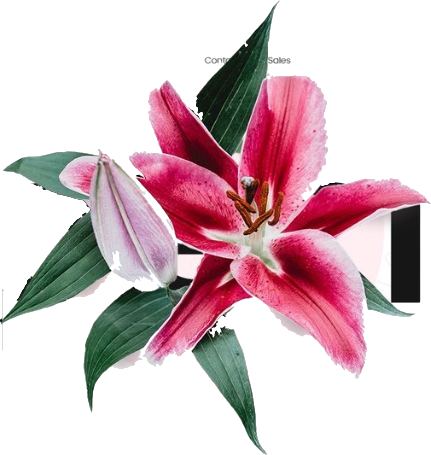
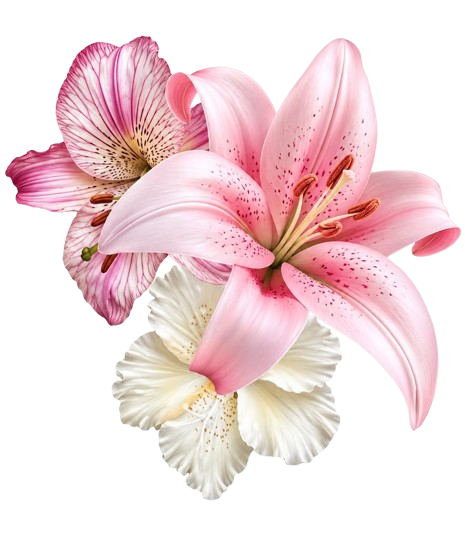
feat: replace hero flower with pristine unified PNG and ensure name Anjali is clearly visible and legible

diff --git a/src/components/hero/LilyFlower.tsx b/src/components/hero/LilyFlower.tsx
@@ -1,4 +1,4 @@
-import React, { useEffect, useRef, useState } from "react"
+import React, { useEffect, useRef } from "react"
 import gsap from "gsap"
 
 interface LilyFlowerProps {
@@ -10,52 +10,22 @@ interface LilyFlowerProps {
 }
 
 export const LilyFlower: React.FC<LilyFlowerProps> = ({
-  bloomRef: externalBloomRef,
-  budRef: externalBudRef,
-  leavesRef: externalLeavesRef,
-  containerRef: externalContainerRef,
+  bloomRef,
+  containerRef,
   isBreathing = false
 }) => {
   const localContainerRef = useRef<HTMLDivElement | null>(null)
   const localBloomRef = useRef<HTMLDivElement | null>(null)
-  const localBudRef = useRef<HTMLDivElement | null>(null)
-  const localLeavesRef = useRef<HTMLDivElement | null>(null)
 
-  const container = externalContainerRef || localContainerRef
-  const bloom = externalBloomRef || localBloomRef
-  const bud = externalBudRef || localBudRef
-  const leaves = externalLeavesRef || localLeavesRef
-
-  const [hasLayers, setHasLayers] = useState<boolean | null>(null)
-  const [hasFull, setHasFull] = useState<boolean | null>(null)
-
-  useEffect(() => {
-    // Check if layered PNGs exist
-    const testImg = new Image()
-    testImg.src = "/assets/lily/lily-bloom.png"
-    testImg.onload = () => setHasLayers(true)
-    testImg.onerror = () => {
-      // Fallback to single cutout
-      const fullImg = new Image()
-      fullImg.src = "/assets/lily/lily-full.png"
-      fullImg.onload = () => {
-        setHasLayers(false)
-        setHasFull(true)
-      }
-      fullImg.onerror = () => {
-        setHasLayers(false)
-        setHasFull(false)
-        console.warn("Lily assets not found. Drop layered PNGs (lily-bloom.png, lily-bud.png, leaf-1.png) or lily-full.png into /public/assets/lily/")
-      }
-    }
-  }, [])
+  const container = containerRef || localContainerRef
+  const bloom = bloomRef || localBloomRef
 
   // Bloom breath reaction when user clicks chevrons
   useEffect(() => {
     if (!isBreathing || !container.current) return
     gsap.to(container.current, {
       scale: 1.05,
-      rotation: "+=2",
+      rotation: "+=1.5",
       duration: 0.35,
       yoyo: true,
       repeat: 1,
@@ -72,121 +42,24 @@ export const LilyFlower: React.FC<LilyFlowerProps> = ({
         willChange: "transform"
       }}
     >
-      {hasLayers === true ? (
-        // Multi-plane layered composition
-        <>
-          {/* Back radiating leaves layer (z-25) */}
-          <div
-            ref={leaves}
-            className="absolute inset-0 w-full h-full pointer-events-none"
-            style={{ zIndex: 25, willChange: "transform" }}
-          >
-            <picture>
-              <img
-                src="/assets/lily/leaf-1.png"
-                alt=""
-                width={465}
-                height={536}
-                className="w-full h-full object-contain pointer-events-none"
-                loading="eager"
-              />
-            </picture>
-          </div>
-
-          {/* Pale-lilac bud layer (z-30) */}
-          <div
-            ref={bud}
-            className="absolute inset-0 w-full h-full pointer-events-none"
-            style={{ zIndex: 30, willChange: "transform" }}
-          >
-            <picture>
-              <img
-                src="/assets/lily/lily-bud.png"
-                alt=""
-                width={465}
-                height={536}
-                className="w-full h-full object-contain pointer-events-none"
-                loading="eager"
-              />
-            </picture>
-          </div>
-
-          {/* Main Stargazer Bloom layer (z-30) */}
-          <div
-            ref={bloom}
-            className="absolute inset-0 w-full h-full pointer-events-none"
-            style={{ zIndex: 30, willChange: "transform" }}
-          >
-            <picture>
-              <img
-                src="/assets/lily/lily-bloom.png"
-                alt="Pink Lily Bloom Bouquet"
-                width={465}
-                height={536}
-                // @ts-expect-error - fetchpriority is valid HTML attribute
-                fetchpriority="high"
-                className="w-full h-full object-contain pointer-events-none"
-                loading="eager"
-              />
-            </picture>
-          </div>
-        </>
-      ) : hasFull === true || hasLayers === null ? (
-        // Single cutout composition fallback
-        <div
-          ref={bloom}
-          className="relative w-full h-full pointer-events-none"
-          style={{ zIndex: 30, willChange: "transform" }}
-        >
-          <picture>
-            <img
-              src="/assets/lily/lily-full.png"
-              alt="Pink Lily Bloom Bouquet"
-              width={465}
-              height={536}
-              // @ts-expect-error - fetchpriority is valid HTML attribute
-              fetchpriority="high"
-              className="w-full h-full object-contain pointer-events-none"
-              loading="eager"
-            />
-          </picture>
-        </div>
-      ) : (
-        // Vector SVG Botanical Lily fallback if no files present
-        <div ref={bloom} className="w-full h-full flex items-center justify-center">
-          <svg viewBox="0 0 400 400" className="w-[85%] h-[85%]" aria-label="Botanical Stargazer Lily Illustration">
-            <defs>
-              <linearGradient id="petalGrad1" x1="0%" y1="0%" x2="100%" y2="100%">
-                <stop offset="0%" stopColor="#FFF2F5" />
-                <stop offset="35%" stopColor="#F4B8CD" />
-                <stop offset="70%" stopColor="#E58AA0" />
-                <stop offset="100%" stopColor="#B83270" />
-              </linearGradient>
-              <linearGradient id="leafGrad" x1="0%" y1="0%" x2="100%" y2="100%">
-                <stop offset="0%" stopColor="#7E882E" />
-                <stop offset="100%" stopColor="#4A5216" />
-              </linearGradient>
-            </defs>
-            {/* Leaves */}
-            <path d="M200,200 Q260,100 240,40 Q180,90 200,200Z" fill="url(#leafGrad)" />
-            <path d="M200,200 Q110,130 80,90 Q120,160 200,200Z" fill="url(#leafGrad)" />
-            <path d="M200,200 Q120,290 90,340 Q150,280 200,200Z" fill="url(#leafGrad)" />
-            <path d="M200,200 Q230,310 220,380 Q250,290 200,200Z" fill="url(#leafGrad)" />
-            {/* Petals */}
-            <path d="M200,200 Q140,80 180,30 Q230,90 200,200Z" fill="url(#petalGrad1)" stroke="#FFF" strokeWidth="2" />
-            <path d="M200,200 Q290,120 350,90 Q300,180 200,200Z" fill="url(#petalGrad1)" stroke="#FFF" strokeWidth="2" />
-            <path d="M200,200 Q320,240 370,270 Q280,270 200,200Z" fill="url(#petalGrad1)" stroke="#FFF" strokeWidth="2" />
-            <path d="M200,200 Q210,310 200,360 Q170,290 200,200Z" fill="url(#petalGrad1)" stroke="#FFF" strokeWidth="2" />
-            <path d="M200,200 Q90,260 40,240 Q110,210 200,200Z" fill="url(#petalGrad1)" stroke="#FFF" strokeWidth="2" />
-            {/* Center Stamens */}
-            <circle cx="200" cy="200" r="10" fill="#E88BAF" />
-            <line x1="200" y1="200" x2="225" y2="175" stroke="#E66A2B" strokeWidth="2.5" />
-            <circle cx="225" cy="175" r="3" fill="#802800" />
-            <line x1="200" y1="200" x2="175" y2="180" stroke="#E66A2B" strokeWidth="2.5" />
-            <circle cx="175" cy="180" r="3" fill="#802800" />
-          </svg>
-        </div>
-      )}
+      <div
+        ref={bloom}
+        className="relative w-full h-full flex items-center justify-center pointer-events-none"
+        style={{ willChange: "transform" }}
+      >
+        <picture>
+          <img
+            src="/assets/lily/lily-full.png"
+            alt="Pink Stargazer Lily and Orchid Botanical Composition"
+            width={465}
+            height={536}
+            // @ts-expect-error - fetchpriority is valid HTML attribute
+            fetchpriority="high"
+            className="w-full h-full object-contain pointer-events-none"
+            loading="eager"
+          />
+        </picture>
+      </div>
     </div>
   )
 }

diff --git a/src/components/HeroSection.tsx b/src/components/HeroSection.tsx
@@ -90,9 +90,9 @@ export const HeroSection: React.FC<HeroSectionProps> = () => {
 
       // Initial positions
       gsap.set(canvasRef.current, { opacity: 0.9, scale: 0.985 })
-      gsap.set(letterCharRefs.current, { yPercent: 115, opacity: 0 })
+      gsap.set(letterCharRefs.current, { y: 60, opacity: 0 })
       gsap.set(flowerDiscRef.current, { scale: 0, opacity: 0 })
-      gsap.set(flowerContainerRef.current, { scale: 0.72, rotation: -10, opacity: 0 })
+      gsap.set(flowerContainerRef.current, { scale: 0.75, rotation: -8, opacity: 0 })
       gsap.set(budRef.current, { scale: 0.8, rotation: -6, opacity: 0 })
       gsap.set(leavesRef.current, { scale: 0.82, rotation: -12, opacity: 0 })
       gsap.set(bottomBarRef.current, { opacity: 0, y: 14 })
@@ -106,12 +106,12 @@ export const HeroSection: React.FC<HeroSectionProps> = () => {
           ease: "power2.out"
         }, 0)
 
-        // 2. Letters of "Anjali" rise out of masked container
+        // 2. Letters of "Anjali" rise and settle with pristine clarity
         .to(letterCharRefs.current, {
-          yPercent: 0,
+          y: 0,
           opacity: 1,
           duration: 1.05,
-          stagger: 0.055,
+          stagger: 0.05,
           ease: "power4.out"
         }, 0.2)
 
@@ -386,18 +386,17 @@ export const HeroSection: React.FC<HeroSectionProps> = () => {
         {/* ── CENTERPIECE: HUGE HEADLINE + PINK DISC + LILY BLOOM (Layers 10, 20, 30) ── */}
         <div className="relative z-10 w-full flex-1 flex items-center justify-center px-4 sm:px-8">
           
-          {/* ── LAYER 10: Giant Headline "Anjali" (Bigger & Highly Visible) ── */}
+          {/* ── LAYER 10: Headline "Anjali" (Properly Visible, Title Case with Visible Dots) ── */}
           <div
             ref={headlineWrapRef}
             className="absolute inset-0 flex items-center justify-center pointer-events-none"
             style={{ zIndex: 10, willChange: "transform" }}
           >
             <h1
-              className="hero-headline-font text-[#111111] tracking-[-0.03em] leading-[0.86] whitespace-nowrap uppercase select-none text-center"
+              className="hero-headline-font text-[#161616] tracking-[-0.015em] leading-[0.88] whitespace-nowrap select-none text-center"
               style={{
-                fontSize: "clamp(6.2rem, 19.5vw, 17rem)",
-                fontWeight: 800,
-                textShadow: "0 2px 20px rgba(0, 0, 0, 0.04)"
+                fontSize: "clamp(6.2rem, 19.5vw, 17.5rem)",
+                fontWeight: 800
               }}
               aria-label="Anjali"
             >
@@ -414,33 +413,33 @@ export const HeroSection: React.FC<HeroSectionProps> = () => {
             </h1>
           </div>
 
-          {/* ── LAYER 20: Soft Pastel Pink Disc (--hero-circle, ~60% flower width) ── */}
+          {/* ── LAYER 20: Soft Pastel Pink Disc (--hero-circle, behind bloom) ── */}
           <div
             ref={flowerDiscRef}
             className="absolute rounded-full pointer-events-none"
             style={{
               zIndex: 20,
-              width: "clamp(230px, 30vw, 390px)",
-              height: "clamp(230px, 30vw, 390px)",
+              width: "clamp(200px, 24vw, 320px)",
+              height: "clamp(200px, 24vw, 320px)",
               backgroundColor: "var(--hero-circle, #FDE8EC)",
               left: "var(--flower-x, 50%)",
-              top: "48.5%",
+              top: "49.5%",
               transform: "translate(-50%, -50%)",
               willChange: "transform, opacity"
             }}
             aria-hidden="true"
           />
 
-          {/* ── LAYER 30: Stargazer Lily Bloom, Bud & Leaves (45-50% canvas height) ── */}
+          {/* ── LAYER 30: Botanical Lily & Orchid Bouquet (Center Balanced, Anjali Clearly Visible) ── */}
           <div
             ref={flowerContainerRef}
             className="absolute pointer-events-none flex items-center justify-center"
             style={{
               zIndex: 30,
-              width: "clamp(310px, 42vw, 530px)",
-              height: "clamp(310px, 42vw, 530px)",
+              width: "clamp(250px, 32vw, 420px)",
+              height: "clamp(290px, 37vw, 490px)",
               left: "var(--flower-x, 50%)",
-              top: "48%",
+              top: "49%",
               transform: "translate(-50%, -50%)",
               willChange: "transform"
             }}

diff --git a/src/index.css b/src/index.css
@@ -112,8 +112,8 @@
 /* Clip paths and smooth reveal masks */
 .letter-mask {
   display: inline-block;
-  overflow: hidden;
-  vertical-align: top;
+  overflow: visible;
+  vertical-align: middle;
 }
 
 .letter-char {
